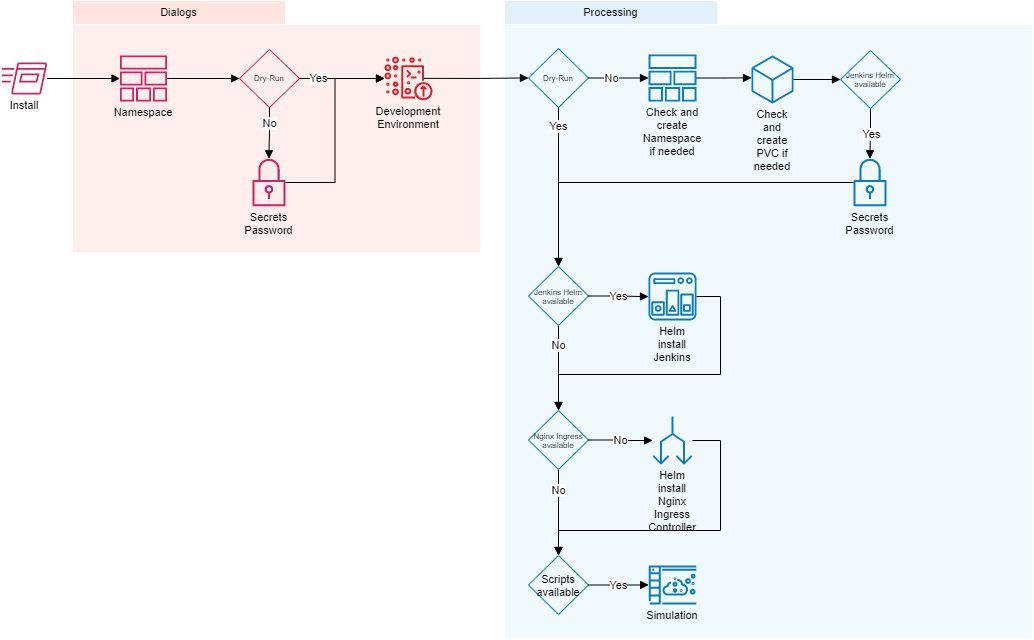
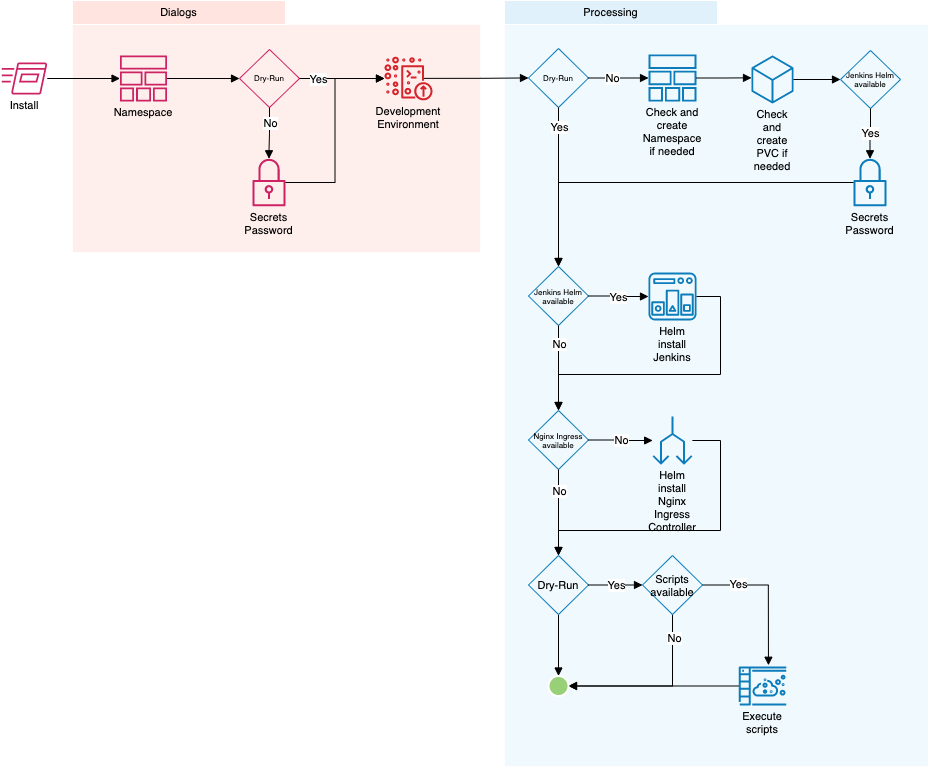
documentation

diff --git a/docs/processes/process_install.md b/docs/processes/process_install.md
@@ -1,3 +1,35 @@
 # Process - Installation / Upgrade
 
+Installing the system has some "dependencies" like secrets, load balancer ingress controller and so on.
+
+The correct order is not very important, but it is helpful to understand what is going on.
+Also, which impact which switch has to the deployment.
+
 ![alt text](../images/process_install.png "K8S Workflow")
+
+In general there are two things:
+- Is it a `dry-run`?
+- Is a helm file for xy available (Jenkins, Nginx Ingress Controller, scripts)
+
+Depending on this the deployment does different things.
+
+# Dry Run
+
+This option does not apply secrets or execute scripts.
+
+The main purpose of this option is to find out what the Kubernetes `YAML` files look like when something is not working.
+
+After the execution all `YAML` files are available in the logs (or in the overview in the details).
+
+# Deployment depending on existing files
+
+In some cases it is not required to deploy everything.
+For that the system checks, if a file is existing. If not, it skips the step.
+
+With this mechanism it is easy to define which components should be deployed.
+
+For example, it makes no sense to deploy the Nginx Ingress Controller, if the global ingress is active.
+It also doesn't make sense to deploy Jenkins in a namespace where a Jenkins instance should only provide applications.
+However, it is necessary to define `RBAC`, for example, to make the deployment work.
+
+It can also be used to define a load balancer whose IP is managed in the `k8s-jcasc-mgmt`.

diff --git a/README.md b/README.md
@@ -425,6 +425,7 @@ This can help to figure out differences between clusters.
 
 # Helpful links #
 
+- K8S JCasC Management internal Processes: [Process overview](docs/README.md)
 - Kubernetes DNS-Based Service Discovery: https://github.com/kubernetes/dns/blob/master/docs/specification.md
 - JCasC Examples: https://github.com/jenkinsci/configuration-as-code-plugin/tree/master/demos
 - Jenkins Seed Job script to create jobs from a JSON in a GIT repository: https://github.com/Ragin-LundF/jenkins-jobdsl-remote
